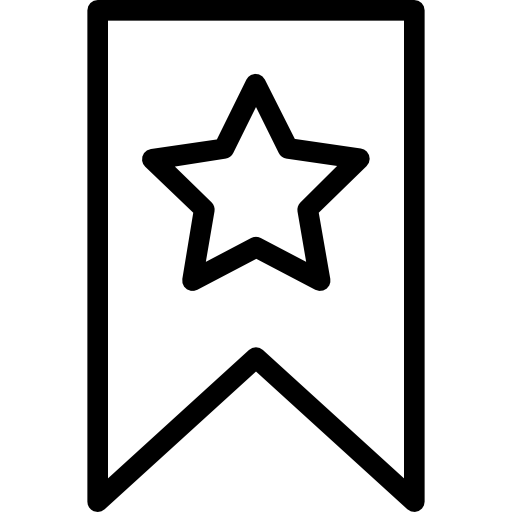
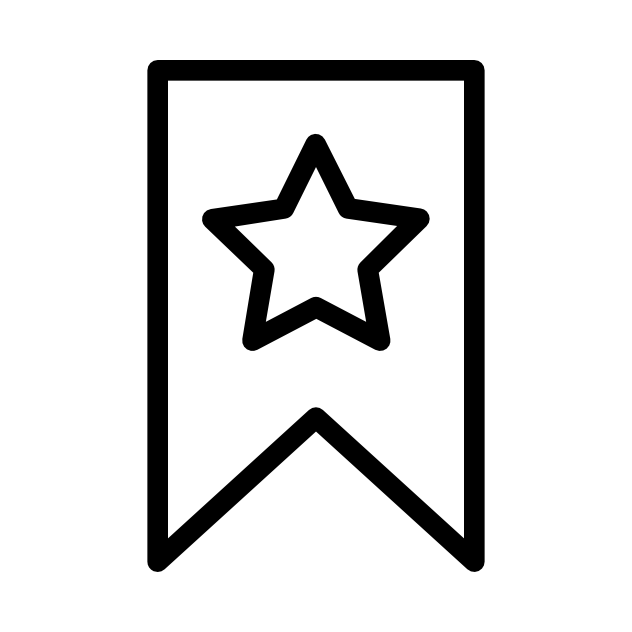
Stuk van main page gemaakt

Changed region(s): [[0.1562, 0.0, 0.8438, 1.0], [0.3438, 0.4062, 0.6562, 0.5625]]

diff --git a/html/Main.html b/html/Main.html
@@ -4,18 +4,49 @@
     <meta charset="UTF-8">
     <meta name="viewport" content="width=device-width, initial-scale=1.0">
     <title>Main - Ehb</title>
+    <link rel="stylesheet" href="../css/mainPage.css">
 </head>
 <body>
-    <div id="container-main">
-   <a href="../html/Login.html"> <img src="../images/bouton-retour.png" alt="back" id="Back-button"></a>  
-   <a href="../html/Cart.html"> <img src="../images/chariot-de-chariot.png" alt="cart" id="Cart-Icon"></a>
- <input type="search" value="Search..."   name="search" id="search">
-   <a href="../html/Settings.html"> <img src="../images/reglages.png" alt="Settings" id="Settings-Icon"></a>
-   <a href="../html//Wishlist.html"> <img src="../images/chariot-de-chariot.png" alt="Wishlist" id="Wishlist-Icon"></a>
+    <div class="navigatie">
+      <a href="#"><img src="../images/bouton-retour.png"></a>
+      <input type="search" placeholder="Search.." name="search" id="search">
+      <div class="navrechts">
+        <a href="#"><img src="../images/signet.png"></a>
+        <a href="#"><img src="../images/chariot-de-chariot.png"></a>
+        <a href="#"><img src="../images/reglages.png"></a>
+      </div>
+    </div>
+    <div class="container">
+        <div class="linkerVak">
+            <div class="sidebar">
+                <div class="category">
+                    <ul>
+                        <li><a href="#">Fototoestellen</a></li>
+                        <li><a href="#">Videotoestellen</a></li>
+                        <li><a href="#">Microfonen</a></li>
+                        <li><a href="#">Drone's</a></li>
+                        <li><a href="#">VR & AR headsets</a></li>
+                        <li><a href="#">Verlichting</a></li>
+                        <li><a href="#">Smart toestellen</a></li>
+                        <li><a href="#">Audio</a></li>
+                    </ul>
+                </div>
+            </div>
+        </div>
+        <h1>Populaire artikelen</h1>
 
-   </div>
+        <div class="artikel">
+          <div class="foto"><img></div>
+          <div class="naamEnzo">
+            <p>Iphone X</p>
+            <input type="button" value="Bekijk nu">
+          </div>
+        </div>
 
+    </div>
 
     
-</body>
+
+
+  </body>
 </html>

diff --git a/css/mainPage.css b/css/mainPage.css
@@ -1,0 +1,94 @@
+body, html {
+  margin: 0;
+  padding: 0;
+  font-family: Arial;
+}
+
+.navigatie {
+  display: flex;
+  justify-content: space-between;
+  align-items: center;
+  border-bottom: solid 1px rgb(54, 54, 54); 
+  padding: 1em;
+  margin-bottom: 0;
+}
+
+.navigatie img {
+  height: auto;
+  width: 100%;
+  background-color: rgb(195, 195, 195);
+  border-radius: 50%;
+}
+
+.navigatie a {
+  display: inline-block;
+  width: 2.5em;
+  height: 2.5em;
+  margin-right: 10px;
+  overflow: hidden;
+  object-fit: contain;
+}
+.navigatie a:hover {
+  filter: brightness(80%);
+}
+
+#search {
+  width: 60%;
+  margin: 0 10px;
+  background-color: rgb(214, 214, 214);
+  border-style: none;
+  padding: 0.6em;
+  border-radius: 3em;
+  margin: 0px;
+  font-size: large;
+}
+
+.navrechts {
+  display: flex;
+}
+
+.sidebar {
+  background-color: rgb(214, 214, 214);
+  width: 18em;
+  height: 40em;
+  padding-top: 0%;
+  margin: 1em 1em 1em 1em;
+}
+
+.linkerVak {
+  width: 20em;
+  border-right: solid 1px black;
+}
+
+.linkerVak a {
+  text-decoration: none;
+  color: black;
+}
+.linkerVak a:hover {
+  color: rgb(71, 71, 169);
+}
+.linkerVak ul {
+  list-style-type: none;
+  padding-top: 0.7em;
+}
+.linkerVak li {
+  margin-top: 2em;
+}
+
+h1 {
+  background-color: antiquewhite;
+  float: right;
+  margin-left: 1em;
+  width:100%;
+}
+
+.container {
+  display: flex;
+  align-items: flex-start;
+}
+
+.artikel {
+  background-color: rgb(107, 107, 107);
+  width: 20%;
+  
+}

diff --git a/html/Login.html b/html/Login.html
@@ -5,7 +5,7 @@
   <meta charset="UTF-8" />
   <meta name="viewport" content="width=device-width, initial-scale=1.0" />
   <title>Aanmelden - Ehb</title>
-  <link rel="stylesheet" href="../css/edit.css">
+  <link rel="stylesheet" href="../css/loginPage.css">
 </head>
 
 <body>
